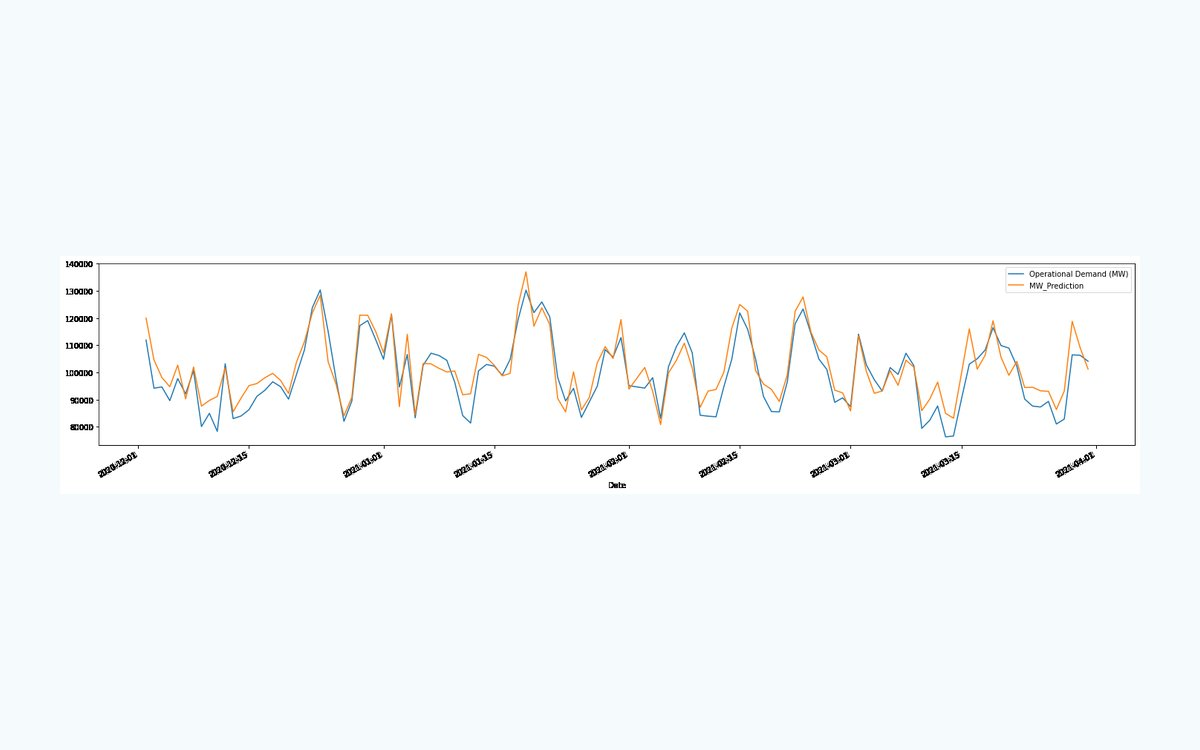
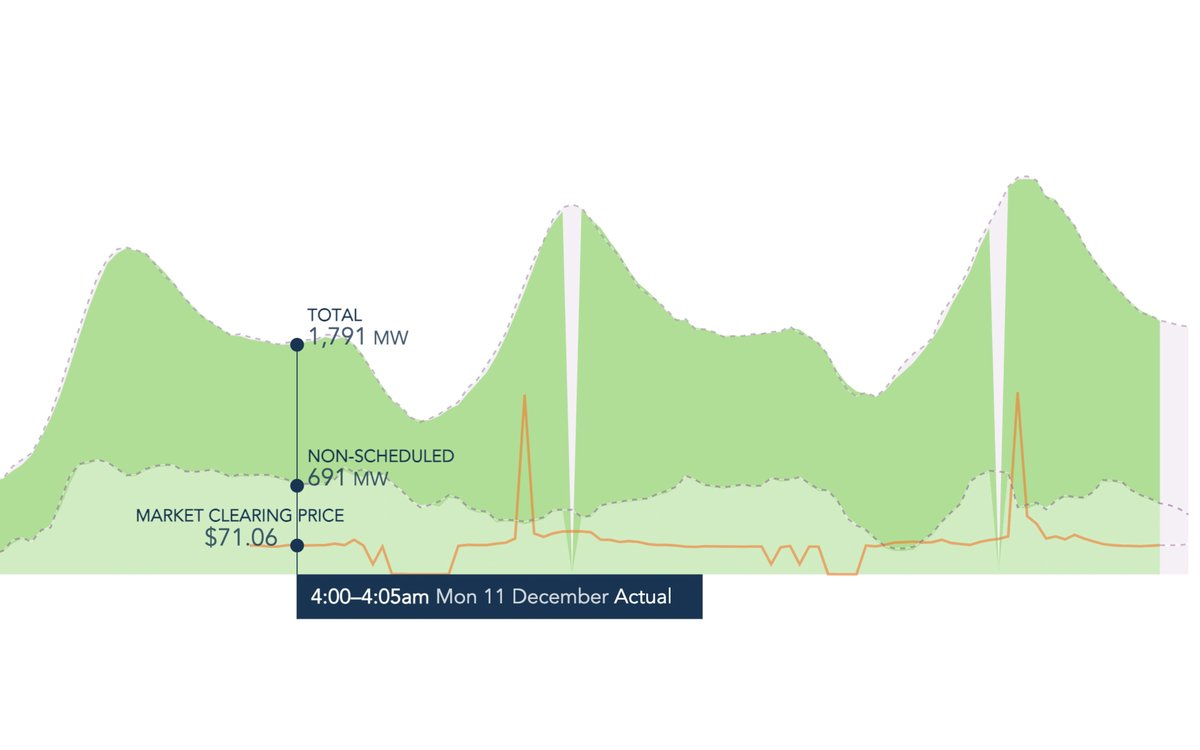
Retire the EULA generator and add images to the two research projects

diff --git a/inc/project-data.php b/inc/project-data.php
@@ -8,7 +8,8 @@
  *
  * This file is the source of truth. Raise DATALKEMI_PROJECTS_VERSION after
  * editing it and the seeder re-applies every entry on the next page load,
- * overwriting edits made in WP Admin.
+ * overwriting edits made in WP Admin. An entry with 'remove' => true deletes
+ * that project. Raise an entry's 'image_version' to replace its thumbnail.
  *
  * @package Datalkemi
  * @since   2.1.0
@@ -16,7 +17,7 @@
 
 defined( 'ABSPATH' ) || exit;
 
-define( 'DATALKEMI_PROJECTS_VERSION', 3 );
+define( 'DATALKEMI_PROJECTS_VERSION', 4 );
 
 return [
 
@@ -124,29 +125,10 @@ return [
 ',
 	],
 
+	/* The EULA generator was retired from the showcase. */
 	[
-		'slug'     => 'eula-generator',
-		'title'    => 'EULA generator',
-		'excerpt'  => 'A browser tool that drafts End User License Agreements from editable templates and exports a finished PDF.',
-		'category' => 'Web tool',
-		'industry' => 'Legal and compliance',
-		'type'     => 'Web application',
-		'tech'     => 'React, TypeScript, Vite, shadcn/ui, Tailwind CSS',
-		'live_url' => '',
-		'hosting'  => 'Not publicly hosted, runs entirely in the browser',
-		'end'      => '2025-08-01',
-		'content'  => '
-<h2>The brief</h2>
-<p>Small software vendors need a licence agreement before they can ship, and most either copy one from a competitor or pay for a template they then cannot edit cleanly. The goal was a tool that produces a sensible first draft in minutes and keeps the text editable.</p>
-<h2>What we built</h2>
-<ul>
-<li>A guided form that captures the product, the licensor, territory, term, and the permissions and restrictions that apply.</li>
-<li>Clause templates assembled into a full agreement, with every section editable in place before export.</li>
-<li>One-click PDF export of the finished document, generated in the browser with nothing sent to a server.</li>
-</ul>
-<h2>Outcome</h2>
-<p>A single-page application with no backend, no accounts, and no stored data, which keeps it simple to host and easy to trust with draft legal text.</p>
-',
+		'slug'   => 'eula-generator',
+		'remove' => true,
 	],
 
 	/* Exnami is a Datalkemi product with its own page (page-exnami.php); the
@@ -191,6 +173,7 @@ return [
 		'tech'     => 'Python, pandas, XGBoost, Jupyter',
 		'live_url' => '',
 		'hosting'  => 'Not hosted, notebooks and a dashboard prototype',
+		'image_version' => 2,
 		'end'      => '2022-10-01',
 		'content'  => '
 <h2>The problem</h2>

diff --git a/inc/project-seed.php b/inc/project-seed.php
@@ -73,7 +73,12 @@ function datalkemi_seed_projects() {
 		wp_set_object_terms( $post_id, $p['industry'], 'project_industry' );
 		wp_set_object_terms( $post_id, $p['type'],     'project_type' );
 
-		$image = DATALKEMI_DIR . '/assets/img/projects/' . $p['slug'] . '.jpg';
+		$image         = DATALKEMI_DIR . '/assets/img/projects/' . $p['slug'] . '.jpg';
+		$image_version = isset( $p['image_version'] ) ? (int) $p['image_version'] : 1;
+		if ( has_post_thumbnail( $post_id ) && (int) get_post_meta( $post_id, '_project_image_version', true ) !== $image_version ) {
+			wp_delete_attachment( get_post_thumbnail_id( $post_id ), true );
+			delete_post_thumbnail( $post_id );
+		}
 		if ( file_exists( $image ) && ! has_post_thumbnail( $post_id ) ) {
 			$bits = wp_upload_bits( basename( $image ), null, file_get_contents( $image ) );
 			if ( empty( $bits['error'] ) ) {
@@ -85,6 +90,7 @@ function datalkemi_seed_projects() {
 				if ( ! is_wp_error( $attachment_id ) && $attachment_id ) {
 					wp_update_attachment_metadata( $attachment_id, wp_generate_attachment_metadata( $attachment_id, $bits['file'] ) );
 					set_post_thumbnail( $post_id, $attachment_id );
+					update_post_meta( $post_id, '_project_image_version', $image_version );
 				}
 			}
 		}
